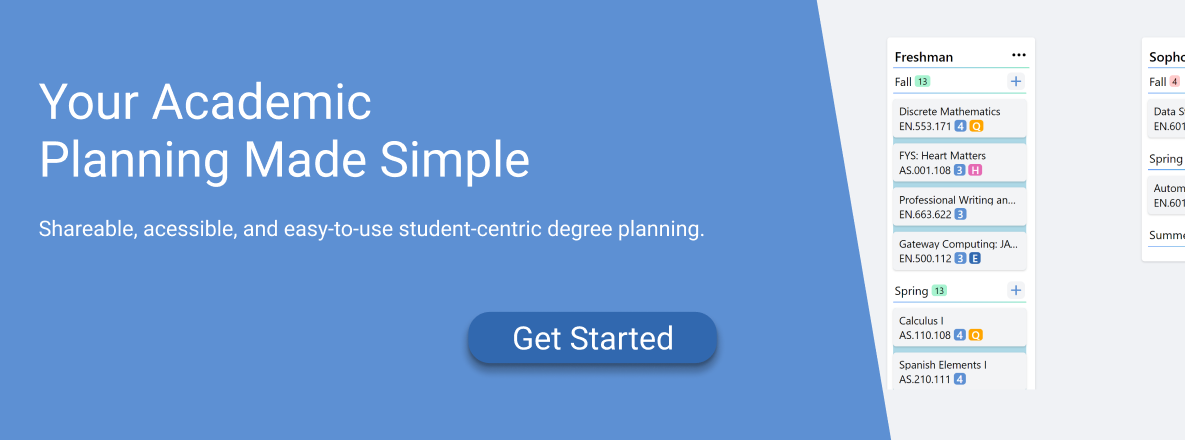
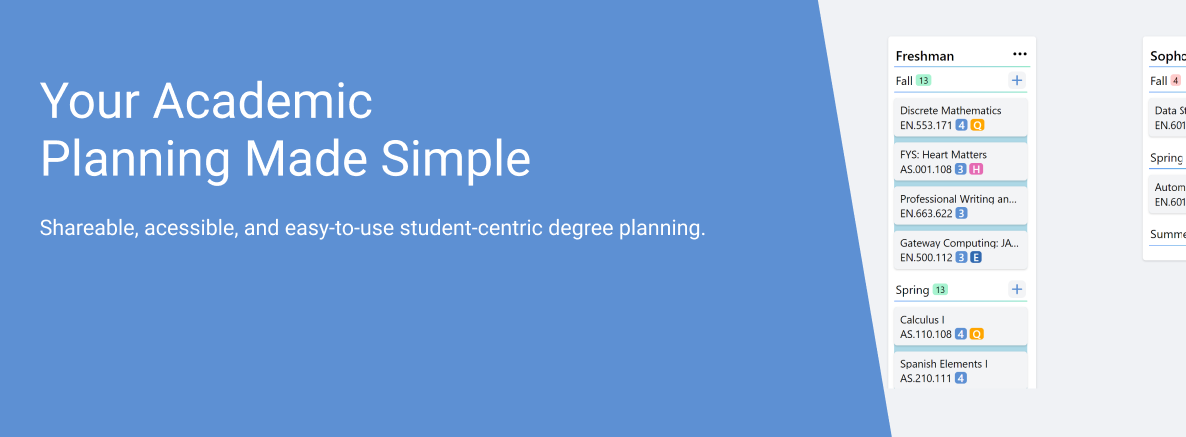
feat: updated landing page text, implemented email team applications, polished up landing page

diff --git a/src/components/landing-page/Banner.tsx b/src/components/landing-page/Banner.tsx
@@ -1,26 +1,202 @@
-import React, { FC } from "react";
+import React, { FC, useState } from "react";
 import { ReactComponent as SemesterlySvg } from "../../resources/svg/Semesterly.svg";
 import "react-responsive-carousel/lib/styles/carousel.min.css"; // requires a loader
-import { Carousel } from 'react-responsive-carousel';
-import HeadlineImg from '../../resources/images/landing-page/headline.png';
-import JoinTeamImg from '../../resources/images/landing-page/joinTeam.png';
+import { Carousel } from "react-responsive-carousel";
+import HeadlineImg from "../../resources/images/landing-page/headline.png";
+import JoinTeamImg from "../../resources/images/landing-page/joinTeam.png";
+import { useHistory } from "react-router";
+import emailjs from "emailjs-com";
+import { toast } from "react-toastify";
+emailjs.init("user_7Cn3A3FQW9PTxExf6Npel");
 
 const Banner: FC = () => {
+  const [activateEmailPopup, setActivateEmailPopup] = useState<boolean>(false);
+  const [year, setYear] = useState<string>("");
+  const [reason, setReason] = useState<string>("");
+  const [position, setPosition] = useState<string>("");
+  const [selfPitch, setSelfPitch] = useState<string>("");
+  const [fromEmail, setFromEmail] = useState<string>("");
+  const [fromName, setFromName] = useState<string>("");
+  const [technologies, setTechnologies] = useState<string>("");
+  const [activateError, setActivateError] = useState<boolean>(false);
+
+  const history = useHistory();
   return (
     <>
-      <div className='w-full'>
+      {activateEmailPopup ? (
+        <div className="absolute top-0">
+          {/* Background Grey */}
+          <div
+            className="fixed z-50 left-0 top-0 m-0 w-full h-screen bg-black opacity-50"
+            onClick={() => setActivateEmailPopup(false)}
+          ></div>
+
+          {/* Actual popup */}
+          <div
+            className={
+              " bg-gradient-to-r shadow from-blue-500 to-green-400 z-50 fixed flex flex-col select-none rounded z-20 w-1/2 top-1/3 left-1/2 transform -translate-x-1/2 -translate-y-1/3 min-w-planAdd shadow"
+            }
+          >
+            <div className="px-4 py-2 text-white text-coursecard font-semibold select-none">
+              uCredit Application Form
+            </div>
+            <div className="w-full h-full text-coursecard">
+              <div className="py-4 w-full h-auto bg-gray-200 rounded">
+                <div className="flex flex-col items-center justify-center mb-4">
+                  <b className="flex flex-row mb-8 mt-4 text-center font-semibold">
+                    Please fill out the required information below.
+                  </b>
+                  <div className="px-16 w-full">
+                    <div className="flex flex-row my-2">
+                      <div className="flex-grow mr-1">Name: </div>
+                      <input
+                        className="p-1 rounded"
+                        value={fromName}
+                        onChange={(event) => setFromName(event.target.value)}
+                      />
+                    </div>
+                    <div className="flex flex-row my-2">
+                      <div className="flex-grow mr-1">Email: </div>
+                      <input
+                        className="p-1 rounded"
+                        value={fromEmail}
+                        onChange={(event) => setFromEmail(event.target.value)}
+                      />
+                    </div>
+                    <div className="flex flex-row my-2">
+                      <div className="flex-grow mr-1">Year: </div>
+                      <input
+                        className="p-1 rounded"
+                        value={year}
+                        onChange={(event) => setYear(event.target.value)}
+                      />
+                    </div>
+                    <div className="flex flex-row my-2">
+                      <div className="flex-grow mr-1">Position: </div>
+                      <select
+                        className="rounded"
+                        onChange={(event) => {
+                          setPosition(event.target.value);
+                        }}
+                      >
+                        <option value="SDE">SDE</option>
+                        <option value="UX">UX</option>
+                      </select>
+                    </div>
+                    <div className="flex flex-row my-2">
+                      <div className="flex-grow mr-1">Self Pitch: </div>
+                      <textarea
+                        className="p-1 w-60 rounded"
+                        value={selfPitch}
+                        onChange={(event) => setSelfPitch(event.target.value)}
+                      />
+                    </div>
+                    <div className="flex flex-row my-2">
+                      <div className="flex-grow mr-1">Reason to join: </div>
+                      <textarea
+                        className="p-1 w-60 rounded"
+                        value={reason}
+                        onChange={(event) => setReason(event.target.value)}
+                      />
+                    </div>
+                    <div className="flex flex-row my-2">
+                      <div className="flex-grow mr-1">
+                        Languages and Frameworks:{" "}
+                      </div>
+                      <input
+                        className="p-1 rounded"
+                        value={technologies}
+                        onChange={(event) =>
+                          setTechnologies(event.target.value)
+                        }
+                      />
+                    </div>
+                  </div>
+                  {activateError ? (
+                    <div className="text-red-600">
+                      Please fill in all inputs.
+                    </div>
+                  ) : null}
+                  <button
+                    className="mt-4 p-2 text-white bg-green-500 rounded"
+                    onClick={() => {
+                      if (
+                        fromName.length > 0 &&
+                        fromEmail.length > 0 &&
+                        selfPitch.length > 0 &&
+                        position.length > 0 &&
+                        year.length > 0 &&
+                        reason.length > 0 &&
+                        technologies.length > 0
+                      ) {
+                        emailjs.send("service_czbc7ct", "template_cxuebne", {
+                          from_name: fromName,
+                          from_email: fromEmail,
+                          to_email: "mliu78@jh.edu",
+                          self_pitch: selfPitch,
+                          position: position,
+                          year: year,
+                          reason: reason,
+                          technologies: technologies,
+                        });
+                        setActivateError(false);
+                        setActivateEmailPopup(false);
+                        toast.success("Application sent!");
+                      } else {
+                        setActivateError(true);
+                      }
+                    }}
+                  >
+                    Submit
+                  </button>
+                </div>
+              </div>
+            </div>
+          </div>
+          <div
+            className={
+              "fixed flex flex-col bg-gray-100 rounded z-20 top-1/3 left-1/2 transform -translate-x-1/2 p-5"
+            }
+          ></div>
+        </div>
+      ) : null}
+      <div className="w-full h-4/6">
         <Carousel showThumbs={false} autoPlay interval={5000} infiniteLoop>
           <div>
-            <img src={HeadlineImg} alt='' />
+            <div className="absolute flex mt-80 w-full">
+              <button
+                onClick={() => history.push("/login")}
+                className="mt-4 mx-auto w-72 h-16 text-white text-3xl font-thin bg-primary rounded-full shadow-xl transform hover:scale-105 transition duration-200 ease-in"
+              >
+                Get Started
+              </button>
+            </div>
+            <img src={HeadlineImg} alt="" />
           </div>
           <div>
-            <img src={JoinTeamImg} alt='' />
+            <div className="absolute flex mt-80 w-full">
+              <button
+                onClick={() => setActivateEmailPopup(true)}
+                className="mt-4 mx-auto w-72 h-16 text-white text-3xl font-thin bg-secondary rounded-full shadow-xl transform hover:scale-105 transition duration-200 ease-in"
+              >
+                Contact Us
+              </button>
+            </div>
+            <img src={JoinTeamImg} alt="" />
           </div>
         </Carousel>
       </div>
-      <div className='flex items-center justify-end mt-2 mr-2 text-gray-600'>
+      <div className="flex items-center justify-end mr-2 mt-2 text-gray-600 select-none">
         Partnered with Semesterly
-        <SemesterlySvg className='w-8 h-8 ml-1' />
+        <SemesterlySvg className="ml-1 w-8 h-8" />
+      </div>
+      <div
+        className="w-full cursor-pointer"
+        onClick={() => window.scrollTo(0, 575)}
+      >
+        <div className="mb-6 mx-auto w-36 text-center font-serif text-lg font-semibold border-b border-theme">
+          Why uCredit?
+        </div>
       </div>
     </>
   );

diff --git a/src/components/landing-page/promoData.ts b/src/components/landing-page/promoData.ts
@@ -1,34 +1,30 @@
-import UserFriendlyGif from '../../resources/images/landing-page/userFriendly.gif';
-import ConvenientGif from '../../resources/images/landing-page/convenient.gif';
-import AutomationGif from '../../resources/images/landing-page/automation.gif';
-import Trustworthy from '../../resources/images/landing-page/trustworthy.png';
+import UserFriendlyGif from "../../resources/images/landing-page/userFriendly.gif";
+import ConvenientGif from "../../resources/images/landing-page/convenient.gif";
+import AutomationGif from "../../resources/images/landing-page/automation.gif";
+import Trustworthy from "../../resources/images/landing-page/trustworthy.png";
 
 const data = [
   {
     title: "Trustworthy",
-    desc:
-      "Courses and degree information are sourced from Johns Hopkins University.",
+    desc: "Courses and degree information are sourced from Johns Hopkins University.",
     img: Trustworthy,
     order: 0,
   },
   {
     title: "Automation",
-    desc:
-      "GIF of automated Maybe about prereq warnings (user hovers over warning and then expanding course info to see the unfulfilled prerq)",
+    desc: "Degree progress and prerequisites checks, all done for you.",
     img: AutomationGif,
     order: 1,
   },
   {
     title: "Convenient",
-    desc:
-      "Convenient Features are included to ease your academic planning process.",
+    desc: "A toolbox of features to ease your academic planning process.",
     img: ConvenientGif,
     order: 0,
   },
   {
     title: "User Friendly",
-    desc:
-      "User Friendly User interface rigorously researched and tested to optimize your experience.",
+    desc: "User friendly interface, rigorously researched and tested to optimize your experience.",
     img: UserFriendlyGif,
     order: 1,
   },

diff --git a/src/components/landing-page/Promo.tsx b/src/components/landing-page/Promo.tsx
@@ -3,29 +3,29 @@ import data from "./promoData";
 
 const Promo: FC = () => {
   return (
-    <div className='flex flex-col items-center px-16 pb-8 my-8'>
-      <div className='mb-6 font-serif text-lg font-semibold border-b border-theme'>
-        Why uCredit?
-      </div>
-      <div className='grid grid-flow-row grid-cols-2 gap-x-4 gap-y-8' style={{ gridTemplateRows: "repeat(4, minmax(100px, 250px))" }}>
+    <div className="flex flex-col items-center my-8 pb-8 px-16">
+      <div
+        className="grid gap-x-4 gap-y-8 grid-flow-row grid-cols-2"
+        style={{ gridTemplateRows: "repeat(4, minmax(100px, 250px))" }}
+      >
         {data.map((d) => {
           return !d.order ? (
             <>
               <div>
-                <div className='text-lg font-bold'>{d.title}</div>
+                <div className="text-lg font-bold">{d.title}</div>
                 <div>{d.desc}</div>
               </div>
-              <div className='flex justify-center bg-gray-200 rounded-md'>
-                <img alt='' src={d.img} />
+              <div className="flex justify-center bg-gray-200 rounded-md">
+                <img alt="" src={d.img} />
               </div>
             </>
           ) : (
             <>
-              <div className='flex justify-center bg-gray-200 rounded-md'>
-                <img alt='' src={d.img} />
+              <div className="flex justify-center bg-gray-200 rounded-md">
+                <img alt="" src={d.img} />
               </div>
               <div>
-                <div className='text-lg font-bold'>{d.title}</div>
+                <div className="text-lg font-bold">{d.title}</div>
                 <div>{d.desc}</div>
               </div>
             </>

diff --git a/src/components/landing-page/Header.tsx b/src/components/landing-page/Header.tsx
@@ -1,14 +1,24 @@
 import React, { FC } from "react";
-import Logo from '../../resources/images/logoDarker.png';
+import { useHistory } from "react-router-dom";
+import Logo from "../../resources/images/logoDarker.png";
 
 const Header: FC = () => {
+  const history = useHistory();
   return (
-    <div className='flex items-center justify-between p-4 h-14'>
+    <div className="flex items-center justify-between p-4 h-1/6">
       <div className="flex items-center">
-        <img className='mr-2 w-7 h-7' src={Logo} alt='' />
-        <div className='text-lg font-light'>uCredit</div>
+        <img className="mr-2 w-7 h-7" src={Logo} alt="" />
+        <div
+          className="text-2xl italic font-light cursor-pointer"
+          onClick={() => history.push("/login")}
+        >
+          uCredit
+        </div>
       </div>
-      <button className='px-2 py-0.5 hover:text-white hover:bg-black border border-gray-600 rounded-lg transition duration-100 ease-in'>
+      <button
+        className="px-2 py-0.5 hover:text-white hover:bg-black border border-gray-600 rounded-lg transition duration-100 ease-in"
+        onClick={() => history.push("/login")}
+      >
         Log in
       </button>
     </div>

diff --git a/src/components/popups/DeletePlanPopup.tsx b/src/components/popups/DeletePlanPopup.tsx
@@ -75,6 +75,8 @@ const DeletePlanPopup = () => {
       <div className="absolute top-0">
         {/* Background Grey */}
         <div className="fixed z-50 left-0 top-0 m-0 w-full h-screen bg-black opacity-50"></div>
+
+        {/* Actual popup */}
         <div
           className={
             "z-50 fixed flex flex-col bg-red-500 select-none rounded z-20 w-3/12 top-1/3 left-1/2 transform -translate-x-1/2 -translate-y-1/3 min-w-planAdd shadow"
@@ -112,7 +114,6 @@ const DeletePlanPopup = () => {
             </div>
           </div>
         </div>
-        {/* Actual popup */}
         <div
           className={
             "fixed flex flex-col bg-gray-100 rounded z-20 top-1/3 left-1/2 transform -translate-x-1/2 p-5"

diff --git a/public/index.html b/public/index.html
@@ -53,5 +53,11 @@
       To begin the development, run `npm start` or `yarn start`.
       To create a production bundle, use `npm run build` or `yarn build`.
     -->
+    <script src="https://cdn.jsdelivr.net/npm/emailjs-com@2.3.2/dist/email.min.js"></script>
+    <script>
+      (function () {
+        emailjs.init("user_7Cn3A3FQW9PTxExf6Npel"); // Obtain your user ID at the dashboard https://dashboard.emailjs.com/integration
+      })();
+    </script>
   </body>
 </html>

diff --git a/src/components/landing-page/Footer.tsx b/src/components/landing-page/Footer.tsx
@@ -2,7 +2,7 @@ import React, { FC } from "react";
 
 const Footer: FC = () => {
   return (
-    <div className='text-sm text-center text-gray-600'>
+    <div className="py-3 text-center text-gray-600 text-sm bg-gray-100">
       <p>uCredit © {new Date().getFullYear()}</p>
       <p>
         Made with <span>❤&nbsp;</span> in Baltimore

diff --git a/src/components/landing-page/index.tsx b/src/components/landing-page/index.tsx
@@ -9,7 +9,7 @@ import Promo from "./Promo";
  */
 const LandingPage = () => {
   return (
-    <div className='w-full h-full pb-4 bg-white'>
+    <div className="w-full h-full bg-white">
       <Header />
       <Banner />
       <Promo />
